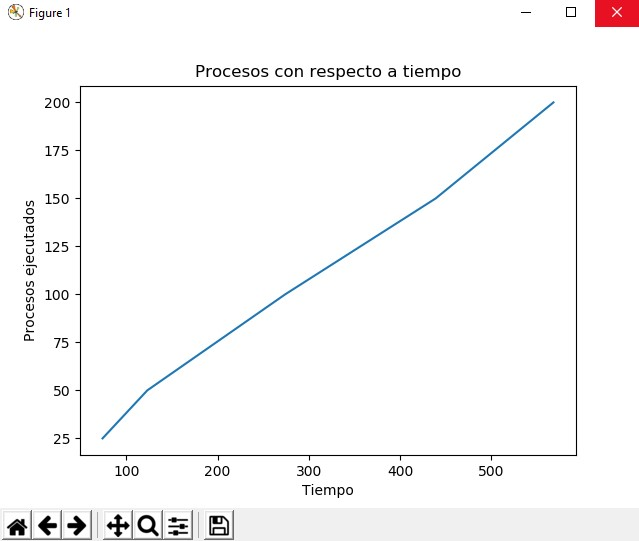
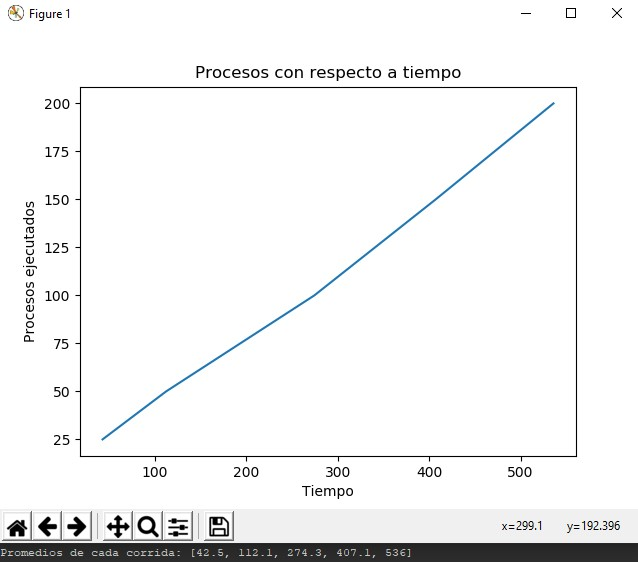
Graficas y Programa Comentado

diff --git a/Programa/Sistema_Operativo_Final.py b/Programa/Sistema_Operativo_Final.py
@@ -1,0 +1,101 @@
+# Christian Daniel Perez De Leon
+# Creado el 1/03/2020
+# Ultima modificacion 4/03/2020
+
+
+
+import simpy
+import random
+import numpy as np
+import matplotlib.pyplot as plt
+
+Total = []                              #Lista donde se va a guardar el Promedio de cada Proceso
+Procesos_a_ejecutarse = 200             # En esta variable se establece el numero de procesos que se ejecutaran en el simulador
+
+
+def sistema_operativo(env, name, ram, cpu, cant_memoria, cant_procesos, tiempo_espera):   #Funcion para simular el Sistema Operativo
+    prosesos_restantes = cant_procesos                                                    #Se almacena la cantidad de procesos en la variable para poder hacer operaciones con el
+    
+    yield env.timeout(tiempo_espera)                                                      #Tiempo en el que se va a tradar en aparecer un nuevo proceso
+    tiempoInicial = env.now
+    #print("%s esta solicitando %s de memoria" % (name, cant_memoria))
+    yield ram.get(cant_memoria)                                                           # Se solicita cierta cantidad de memoria RAM. Si ya no hay espacio, el proceso queda en espera
+    print("%s esta listo para ser recibido por el CPU en %s" % (name, env.now))
+    terminar = False
+    u = 0
+    
+    while terminar == False:                                                               #Siclo para cada proceso en donde saldra unicamente cuando su cantidad de procesos sea 0
+        
+        with cpu.request() as req:
+            inicio = env.now
+            yield req
+        
+       
+            prosesos_restantes = prosesos_restantes - 3                                    #Se restan la cantidad de procesos ejecutados por la CPU a la cantidad de procesos que tiene el proceso
+            yield env.timeout(1)
+            print("%s ejecuto 3 procesos en %s" %(name, env.now))
+            
+            if prosesos_restantes <= 0:                                                    #Si el proceso tiene 0 o menos procesos por ejecutarse, el proceso termino
+                terminar = True
+            else:                                                                          #Si no, escoge un numero al azar, si sale 1, va al proceso de entrada/salida, si sale 2, regresa a la cola para ejecutar otros 3 procesos en la CPU
+                u = random.randint(1,2)
+                if u == 1:
+                    yield env.timeout(1)
+                    print("%s esta en operaciones de entrada/salida en %s" % (name, env.now))
+            
+   
+    print("%s termino sus procesos en %s" %(name, env.now))
+    
+    yield ram.put(cant_memoria)                                                            #Antes de salir del proceso se devuelve el espacio que este utilizo de RAM
+    
+    tiempoFinal = env.now
+    tiempoTotal = tiempoFinal - tiempoInicial                                              #Calcula el tiempo promedio de este proceso y lo mete en la lista
+    print(tiempoTotal)
+    Total.append(tiempoTotal)
+    
+
+random.seed(10)
+
+
+env = simpy.Environment()
+ram = simpy.Container(env, init=100, capacity = 100)               #Container para la RAM y Resource para el CPU
+cpu = simpy.Resource(env, 2)
+for i in range(Procesos_a_ejecutarse + 1):                         #Segun la cantidad de procesos descritos en la variable Procesos_a_ejecutarse, se ejecutara el simulador
+    tiempo_espera = random.expovariate(1.0/10)
+    cant_memoria = random.randint(1,10)
+    cant_procesos = random.randint(1,10)
+    env.process(sistema_operativo(env, "proceso %s" % i, ram, cpu, cant_memoria, cant_procesos, tiempo_espera))
+
+env.run()
+
+promedio = 0
+for j in range(Procesos_a_ejecutarse + 1):                        # Se calcula el promedio total de todos los tiempos promedios
+    promedio = promedio + Total[i]
+
+print("Promedio de tiempo por proceso %s" % (promedio/Procesos_a_ejecutarse))
+
+var = np.asarray(Total)
+varianza = var.std()                                              #Convierte la lista a un array y le aplica la funcion str() para calcular la desviacion estandar
+print("Varianza : %s" % (varianza))
+
+
+
+
+#Se ingresa en q los tiempos promedios para cada tanda de procesos y se utiliza matplotlib.pyplot para graficar cant. procesos-tiempo
+
+q = [7.1, 44.6, 120.8, 187.8, 250.6]
+w = [25, 50, 100, 150, 200]
+
+#Descomentar la parte siguiente para graficar
+
+#print("Promedios de cada corrida: %s" % (q) )
+#plt.plot (q, w)
+#plt.title("Procesos con respecto a tiempo")
+#plt.xlabel("Tiempo")
+#plt.ylabel("Procesos ejecutados")
+#plt.show()
+
+
+            
+    
+    

diff --git a/Programa/Sistema_Operativo_Prueba.py b/Programa/Sistema_Operativo_Prueba.py
@@ -48,8 +48,7 @@ for i in range(201):
 env.run()
 
 
-mi_path = "Tiempos.txt"
-x = open(mi_path, "a+")
+
 promedio = 0
 for j in range(201):
     promedio = promedio + Total[i]
